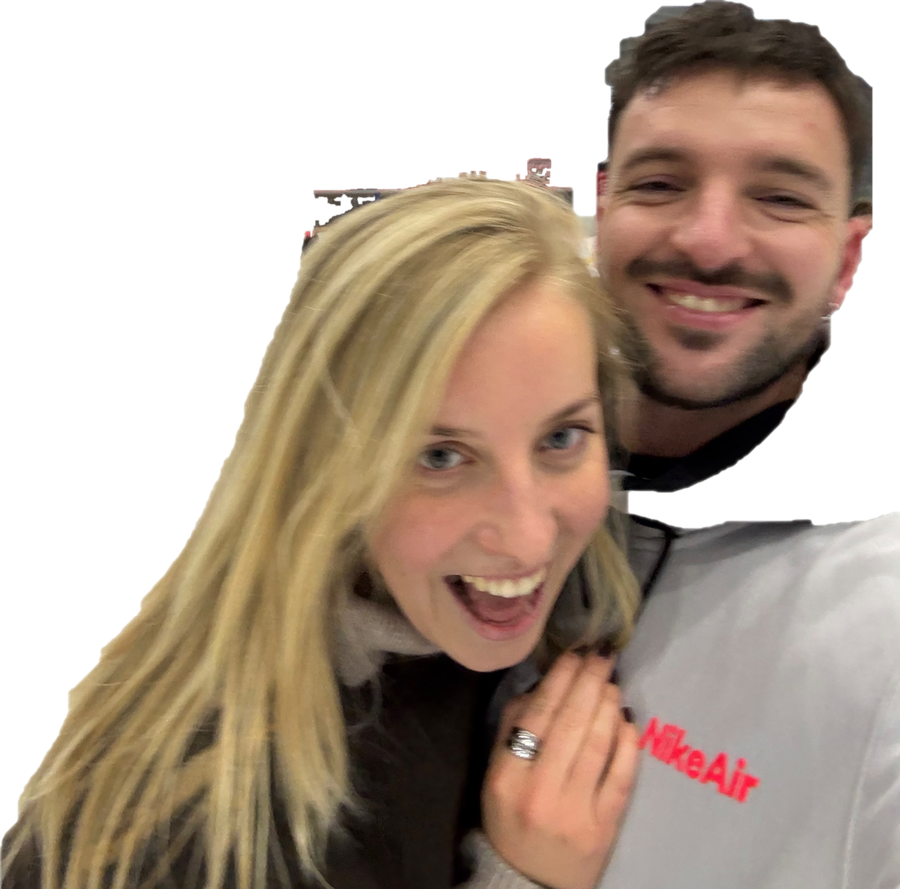
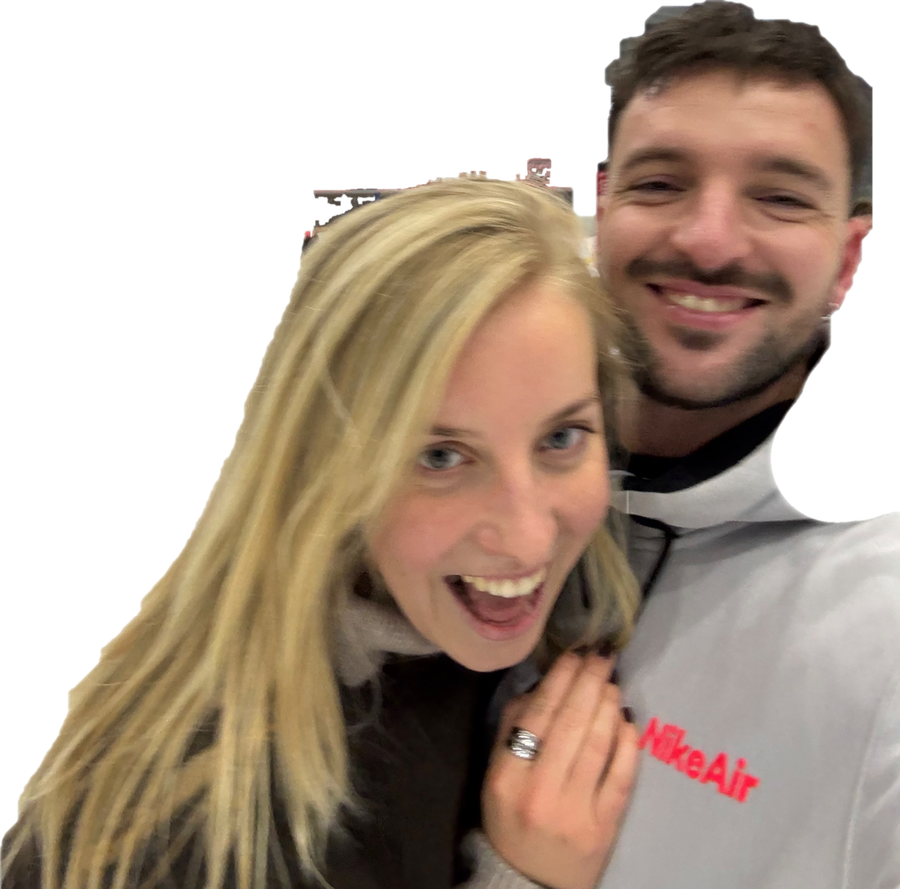
Add files via upload

Changed region(s): [[0.6844, 0.4859, 0.9333, 0.6074]]

diff --git a/app.js b/app.js
@@ -38,9 +38,11 @@ const daysTo = m => {
 /* ---------- modules ---------- */
 const cal = { y: new Date().getFullYear(), m: new Date().getMonth(), sel: iso(new Date()) };
 let listTab = null;
-let songId = null, rotTimer = null, homePhotoId = null, sportRange = 'month', sportWho = 'all';
+let songAdd = false, goalOwner = 2, songId = null, rotTimer = null, homePhotoId = null, sportRange = 'month', sportWho = 'all';
 const legend = () => `<p class="legend">${[0, 1, 2].map(i => `<span class="tag who" data-w="${i}">${esc(owner(i))}</span>`).join(' ')}</p>`;
 const copyText = t => navigator.clipboard?.writeText(t).then(() => toast('Copied'));
+const spotifyId = u => (u || '').match(/open\.spotify\.com\/(?:intl-[a-z]+\/)?(track|album|playlist|artist|episode|show)\/([A-Za-z0-9]+)/);
+const GOAL_IDEAS = [['📖', 'Read 15 pages'], ['💧', 'Drink 2 liters of water'], ['🧘', 'Stretching, 10 minutes'], ['🚶', 'Walk 8 000 steps'], ['😴', 'In bed by 23:00'], ['🍎', 'Fruit or veg with every meal'], ['📵', 'One hour without phone'], ['✍', 'Write 3 things you are grateful for']];
 const nextSong = () => { songId = null; render(); };
 const hm = m => `${Math.floor(m / 60)}h ${m % 60}m`;
 function shufflePhoto() { homePhotoId = null; render(); }
@@ -55,9 +57,9 @@ function home() {
   const byTime = (a, b) => (a.date + (a.time || '')).localeCompare(b.date + (b.time || ''));
   const evRow = (e, label) => `<li data-w="${e.who}"><span class="grow">${esc(e.title)}${e.location ? ` <span class="muted">at ${esc(e.location)}</span>` : ''}</span>${label ? `<span class="tag teal">${label}</span>` : ''}<span class="muted">${esc(e.time || 'all day')}</span></li>`;
   const label = k => { const n = Math.round((parse(k) - t0) / 864e5); return n === 1 ? 'Tomorrow' : parse(k).toLocaleDateString(undefined, { weekday: 'short', day: 'numeric', month: 'short' }); };
-  const evs = S.events.filter(e => e.date === t).sort(byTime);
-  const coming = S.events.filter(e => e.date > t).sort(byTime).slice(0, 8);
-  const open = S.tasks.filter(x => !x.done).sort((a, b) => (a.due || '9').localeCompare(b.due || '9')).slice(0, 7);
+  const evs = S.events.filter(e => e.date === t).sort(byTime).slice(0, 4);
+  const coming = S.events.filter(e => e.date > t).sort(byTime).slice(0, 5);
+  const open = S.tasks.filter(x => !x.done).sort((a, b) => (a.due || '9').localeCompare(b.due || '9')).slice(0, 5);
   const ms = S.milestones.map(m => ({ ...m, n: daysTo(m) })).sort((a, b) => a.n - b.n).slice(0, 3);
   const lst = S.lists.slice(0, 4).map(l => ({ name: l.name, owner: l.owner ?? 2, open: l.items.filter(i => !i.done) }));
   const trip = S.events.filter(e => e.date >= t && e.lat != null && Math.round((parse(e.date) - t0) / 864e5) <= 9).sort(byTime)[0];
@@ -73,10 +75,12 @@ function home() {
   const longest = mon.reduce((a, s) => s.mins > (a?.mins || 0) ? s : a, null);
   const byT = {}; mon.forEach(s => byT[s.type] = (byT[s.type] || 0) + s.mins);
   const topT = Object.entries(byT).sort((a, b) => b[1] - a[1])[0];
-  const last = [...S.sports].sort((a, b) => b.date.localeCompare(a.date))[0];
-  const more = (id, txt) => `<p style="margin:.6rem 0 0"><a href="#${id}">${txt}</a></p>`;
+  const head = (title, id) => `<div class="chead"><h3>${title}</h3><a href="#${id}">Open</a></div>`;
   const hello = (h => h < 5 ? 'Good night' : h < 12 ? 'Good morning' : h < 18 ? 'Good afternoon' : 'Good evening')(new Date().getHours());
-  return `<h2>${hello}, ${esc(S.names[0])} & ${esc(S.names[1])}</h2><p class="muted">${fmt(t)}</p>${legend()}
+  const player = !song ? `<p class="muted">Tap “+ Add” and paste a Spotify link to a song, album or playlist. A player shows up here.</p>`
+    : song.sid ? `<iframe class="spot" src="https://open.spotify.com/embed/${song.kind}/${song.sid}?theme=0" height="152" allow="encrypted-media; clipboard-write" loading="lazy" title="Spotify player"></iframe>`
+    : `<div class="songt">${esc(song.title)}</div><p class="muted">${esc(song.artist)}</p><a class="btn" href="https://open.spotify.com/search/${encodeURIComponent(song.title + ' ' + song.artist)}" target="_blank" rel="noopener">Find on Spotify</a>`;
+  return `<div class="homehead"><h2>${hello}, ${esc(S.names[0])} & ${esc(S.names[1])} <span class="muted">${fmt(t)}</span></h2>${legend()}</div>
   <div class="home">
     <section class="card span hero"><div class="herogrid">
       <div><h3>Special dates</h3>${ms.length
@@ -84,23 +88,21 @@ function home() {
         : `<p class="muted">Add an anniversary or birthday under Special dates.</p>`}</div>
       <div><h3>Weather</h3><div class="wxrow">${places.map(p => `<div class="wxplace"><span class="muted">${esc(p[0])}</span><div data-wx="${p[1]}|${p[2]}|${p[3]}">…</div></div>`).join('')}</div></div>
     </div></section>
-    <section class="card todaycard"><h3>Today</h3>${evs.length ? `<ul class="items">${evs.map(e => evRow(e)).join('')}</ul>` : `<p class="muted">Nothing planned today.</p>`}${more('calendar', 'Open calendar')}</section>
-    <section class="card"><h3>Song of the day</h3>${song
-      ? `<div class="songt">${esc(song.title)}</div><p class="muted">${esc(song.artist)}</p><p><a class="btn" href="https://open.spotify.com/search/${encodeURIComponent(song.title + ' ' + song.artist)}" target="_blank" rel="noopener">Find on Spotify</a> <button onclick="nextSong()">Another</button> <button class="ghost" data-act="delSong" data-id="${song.id}">Remove</button></p>`
-      : `<p class="muted">Add your favourite songs and a suggestion shows up here.</p>`}
-      <form class="row" data-form="addSong" style="margin:.4rem 0 0"><input type="text" name="title" placeholder="Song" required aria-label="Song"><input type="text" name="artist" placeholder="Artist" aria-label="Artist"><button>Add</button></form></section>
-    <section class="card"><h3>Coming up</h3>${coming.length ? `<ul class="items">${coming.map(e => evRow(e, label(e.date))).join('')}</ul>` : `<p class="muted">No upcoming events. Add one in the Calendar.</p>`}${more('calendar', 'Open calendar')}</section>
-    <section class="card"><h3>Open to-dos</h3>${open.length ? `<ul class="items">${open.map(x => `<li data-w="${x.owner}"><span class="grow">${esc(x.text)}${x.due ? ` <span class="muted">due ${fmt(x.due)}</span>` : ''}</span></li>`).join('')}</ul>` : `<p class="muted">All done. Add a new to-do when something comes up.</p>`}${more('tasks', 'All to-dos')}</section>
+    <section class="card todaycard">${head('Today', 'calendar')}${evs.length ? `<ul class="items">${evs.map(e => evRow(e)).join('')}</ul>` : `<p class="muted">Nothing planned today.</p>`}</section>
+    <section class="card">${head('Coming up', 'calendar')}${coming.length ? `<ul class="items">${coming.map(e => evRow(e, label(e.date))).join('')}</ul>` : `<p class="muted">No upcoming events.</p>`}</section>
+    <section class="card">${head('To-dos', 'tasks')}${open.length ? `<ul class="items">${open.map(x => `<li data-w="${x.owner}"><span class="grow">${esc(x.text)}${x.due ? ` <span class="muted">${fmt(x.due)}</span>` : ''}</span></li>`).join('')}</ul>` : `<p class="muted">All done.</p>`}</section>
     <section class="card memo">${hp && sb
       ? `<button class="memophoto" onclick="openViewer('${hp.id}')" aria-label="Open photo"><img data-photo="${hp.path}" alt="Memory from ${fmt(hp.date)}"></button><div class="memocap"><span>${fmt(hp.date)}</span></div>`
-      : `<div class="memoempty"><h3>Memory</h3><p class="muted">Add photos to a day in the Calendar. They appear here and change every few seconds.</p></div>`}</section>
-    <section class="card"><h3>Sports this month</h3>${mon.length
-      ? `<div class="big">${hm(tm(0) + tm(1))}</div><p class="muted">both of you combined</p>
+      : `<div class="memoempty"><h3>Memory</h3><p class="muted">Add photos to a day in the Calendar. They show here and change every few seconds.</p></div>`}</section>
+    <section class="card music"><div class="chead"><h3>Our music</h3><span><button class="ghost" onclick="nextSong()">Shuffle</button><button class="ghost" onclick="songAdd=!songAdd;render()">${songAdd ? 'Close' : '+ Add'}</button></span></div>${player}
+      ${songAdd ? `<form class="row" data-form="addSong" style="margin:.6rem 0 0"><input type="text" name="url" placeholder="Paste a Spotify link" required aria-label="Spotify link"><button class="primary">Add</button></form>` : ''}
+      ${song ? `<button class="ghost" data-act="delSong" data-id="${song.id}">Remove this one</button>` : ''}</section>
+    <section class="card">${head('Sports this month', 'sports')}${mon.length
+      ? `<div class="sportrow"><div class="big">${hm(tm(0) + tm(1))}</div><span class="muted">combined</span></div>
         ${[0, 1].map(i => `<div class="bar" data-w="${i}"><span>${esc(S.names[i])}</span><div><i style="width:${Math.round(tm(i) / mx * 100)}%"></i></div><b>${hm(tm(i))}</b></div>`).join('')}
-        <div class="chips"><span class="chip"><b>${mon.length}</b> activities</span><span class="chip"><b>${S.sports.filter(s => s.date >= wkStart).length}</b> this week</span><span class="chip"><b>${kmTot.toFixed(0)}</b> km</span>${topT ? `<span class="chip">top: <b>${esc(topT[0])}</b></span>` : ''}${longest ? `<span class="chip">longest <b>${hm(longest.mins)}</b></span>` : ''}</div>
-        ${last ? `<p class="muted">Last: ${esc(last.type)} on ${fmt(last.date)}</p>` : ''}`
-      : `<p class="muted">Nothing logged this month.</p>`}${more('sports', 'Open sports')}</section>
-    <section class="card span"><h3>Lists</h3><div class="listgrid">${lst.length ? lst.map(l => `<div class="mini" data-w="${l.owner}"><strong>${esc(l.name)}</strong> <span class="tag who">${l.open.length} open</span><div class="muted">${l.open.length ? esc(l.open.slice(0, 4).map(i => i.text).join(', ')) + (l.open.length > 4 ? '…' : '') : 'All done'}</div></div>`).join('') : `<p class="muted">No lists yet.</p>`}</div>${more('lists', 'All lists')}</section>
+        <div class="chips"><span class="chip"><b>${mon.length}</b> activities</span><span class="chip"><b>${S.sports.filter(s => s.date >= wkStart).length}</b> this week</span><span class="chip"><b>${kmTot.toFixed(0)}</b> km</span>${topT ? `<span class="chip">top <b>${esc(topT[0])}</b></span>` : ''}${longest ? `<span class="chip">longest <b>${hm(longest.mins)}</b></span>` : ''}</div>`
+      : `<p class="muted">Nothing logged this month.</p>`}</section>
+    <section class="card span2">${head('Lists', 'lists')}<div class="listgrid">${lst.length ? lst.map(l => `<div class="mini" data-w="${l.owner}"><strong>${esc(l.name)}</strong> <span class="tag who">${l.open.length} open</span><div class="muted">${l.open.length ? esc(l.open.slice(0, 3).map(i => i.text).join(', ')) + (l.open.length > 3 ? '…' : '') : 'All done'}</div></div>`).join('') : `<p class="muted">No lists yet.</p>`}</div></section>
   </div>`;
 }
 
@@ -240,6 +242,7 @@ const A = {
   srange: id => { sportRange = id; },
   swho: id => { sportWho = id; },
   delSong: id => { S.songs = S.songs.filter(s => s.id !== id); songId = null; },
+  preset: t => { if (GOAL_IDEAS.some(i => i[1] === t) && !S.goals.some(g => g.text === t)) S.goals.push({ id: uid(), text: t, owner: goalOwner, days: {} }); },
   toggleGoal: id => { const g = S.goals.find(x => x.id === id), t = iso(new Date()); if (g.days[t]) delete g.days[t]; else g.days[t] = 1; },
   delGoal: id => { S.goals = S.goals.filter(g => g.id !== id); },
   delSport: id => { S.sports = S.sports.filter(s => s.id !== id); },
@@ -265,7 +268,7 @@ const F = {
   saveMs: d => Object.assign(S.milestones.find(x => x.id === d.id), { title: d.title.trim(), date: d.date, repeat: !!d.repeat }),
   addSport: d => S.sports.push({ id: uid(), ...sportData(d) }),
   saveSport: d => Object.assign(S.sports.find(x => x.id === d.id), sportData(d)),
-  addSong: d => S.songs.push({ id: uid(), title: d.title.trim(), artist: (d.artist || '').trim() }),
+  addSong: d => { const m = spotifyId(d.url); if (!m) { toast('That does not look like a Spotify link.'); return; } S.songs.push({ id: uid(), kind: m[1], sid: m[2] }); songAdd = false; songId = null; },
   addGoal: d => S.goals.push({ id: uid(), text: d.text.trim(), owner: +d.owner, days: {} }),
   saveGoal: d => Object.assign(S.goals.find(x => x.id === d.id), { text: d.text.trim(), owner: +d.owner }),
   saveToken: d => { S.calToken = d.token.trim(); },
@@ -440,6 +443,8 @@ function goals() {
       <div class="grow">${esc(g.text)}<div class="week" aria-label="Last 7 days">${week(g)}</div></div><span class="muted">${streak(g)} day streak</span><span class="tag who">${esc(owner(g.owner))}</span>${editBtn(g.id)}<button class="ghost" data-act="delGoal" data-id="${g.id}" aria-label="Delete goal">✕</button></li>`;
   return `<h2>Daily goals</h2><p class="muted">${done} of ${S.goals.length} done today</p>
   <div class="progress" role="progressbar" aria-valuenow="${pct}" aria-valuemin="0" aria-valuemax="100"><i style="width:${pct}%"></i></div>
+  ${GOAL_IDEAS.some(([, t]) => !S.goals.some(g => g.text === t)) ? `<div class="card"><div class="chead"><h3>Popular goals</h3><label class="muted">For <select onchange="goalOwner=+this.value" aria-label="Who is it for">${ownerOpts(goalOwner)}</select></label></div>
+    <div class="ideas">${GOAL_IDEAS.filter(([, t]) => !S.goals.some(g => g.text === t)).map(([ic, t]) => `<button class="idea" data-act="preset" data-id="${esc(t)}"><span class="ic">${ic}</span>${esc(t)}</button>`).join('')}</div></div>` : ''}
   <form class="card row" data-form="addGoal"><h3 style="flex-basis:100%;margin:0">New daily goal</h3>
     <input type="text" name="text" placeholder="e.g. 10 000 steps, read 20 minutes, no sugar" required aria-label="Goal">
     <select name="owner" aria-label="For whom">${ownerOpts(2)}</select><button class="primary">Add goal</button></form>
@@ -463,6 +468,7 @@ function sports() {
   const byType = {}; inR.forEach(s => { (byType[s.type] ||= [0, 0, 0])[s.who] += s.mins; });
   const sum3 = v => v[0] + v[1] + v[2];
   const bars = Object.entries(byType).sort((a, b) => sum3(b[1]) - sum3(a[1])).slice(0, 6), maxB = bars[0] ? sum3(bars[0][1]) : 1;
+  const maxS = Math.max(1, ...bars.flatMap(([, v]) => v));
   const list = inR.filter(s => sportWho === 'all' || has(s, +sportWho));
   const tab = (act, id, on, txt) => `<button class="${on ? 'on' : ''}" data-act="${act}" data-id="${id}">${txt}</button>`;
   const types = [...new Set([...SPORT_TYPES, ...S.sports.map(s => s.type)])];
@@ -486,7 +492,7 @@ function sports() {
     ${[0, 1].map(i => `<div class="card" data-w="${i}"><p class="muted">${esc(S.names[i])}</p><div class="big">${hm(tm(i))}</div><p class="muted">${mine(i).length} activities, ${km(i).toFixed(1)} km</p></div>`).join('')}
   </div>
   <p class="muted" style="margin-top:-.4rem">Activities done together count for both of you.</p>
-  ${bars.length ? `<div class="card"><h3>Time by activity</h3>${legend()}${bars.map(([t, v]) => `<div class="bar"><span>${esc(t)}</span><div>${[0, 1, 2].map(w => v[w] ? `<i data-w="${w}" style="width:${v[w] / maxB * 100}%"></i>` : '').join('')}</div><b>${hm(sum3(v))}</b></div>`).join('')}</div>` : ''}
+  ${bars.length ? `<div class="card"><h3>Time by activity</h3>${legend()}${bars.map(([t, v]) => `<div class="bgroup"><div class="bhead"><strong>${esc(t)}</strong><span class="muted">${hm(sum3(v))} in total</span></div>${[0, 1, 2].filter(w => v[w]).map(w => `<div class="bar" data-w="${w}"><span>${esc(owner(w))}</span><div><i style="width:${Math.round(v[w] / maxS * 100)}%"></i></div><b>${hm(v[w])}</b></div>`).join('')}</div>`).join('')}</div>` : ''}
   <form class="card row" data-form="addSport"><h3 style="flex-basis:100%;margin:0">Log an activity</h3>${fields({})}<button class="primary">Add activity</button></form>
   <datalist id="sporttypes">${types.map(t => `<option value="${esc(t)}">`).join('')}</datalist>
   <div class="tabs">${tab('swho', 'all', sportWho === 'all', 'Everyone')}${tab('swho', '0', sportWho === '0', esc(S.names[0]))}${tab('swho', '1', sportWho === '1', esc(S.names[1]))}</div>
@@ -503,6 +509,7 @@ function render() {
   document.getElementById('brand').textContent = S.names.join(' + ');
   const y = view.scrollTop;
   view.innerHTML = m.render();
+  view.classList.toggle('onehome', m.id === 'home');
   view.scrollTop = y;
   if (editing) view.querySelector('.editing input[type=text], .editing textarea')?.focus();
   hydrate(); fillWeather();

diff --git a/style.css b/style.css
@@ -118,6 +118,9 @@ ul.items li[data-w]{box-shadow:inset 4px 0 0 var(--wc);padding-left:.9rem}
 .cal button.sel .dots b{box-shadow:0 0 0 1.5px #1b0f31}
 .cal button.has::after{display:none}
 .bar[data-w] i{background:var(--wc)}
+.bgroup{margin:.8rem 0 1rem}
+.bhead{display:flex;justify-content:space-between;align-items:baseline}
+.bgroup .bar{margin:.25rem 0}
 .bar div i{display:block;height:100%}
 .bar div{display:flex}
 
@@ -142,6 +145,31 @@ a.btn,main a.btn{display:inline-block;padding:.55rem 1.1rem;border-radius:999px;
 .week{display:flex;gap:4px;margin-top:.35rem}
 .week i{width:14px;height:6px;border-radius:99px;background:var(--field)}
 .week i.on{background:var(--wc)}
+
+/* one-page home */
+.homehead{display:flex;justify-content:space-between;align-items:baseline;gap:.4rem 1rem;flex-wrap:wrap}
+.homehead h2{margin:0}.homehead h2 .muted{font-family:var(--body);font-weight:400;margin-left:.4rem}
+.chead{display:flex;justify-content:space-between;align-items:baseline;margin-bottom:.4rem;gap:.5rem}
+.chead h3{margin:0}.chead a{font-size:.85rem}
+.sportrow{display:flex;align-items:baseline;gap:.6rem}
+.spot{width:100%;border:0;border-radius:14px;display:block}
+.ideas{display:grid;grid-template-columns:repeat(auto-fill,minmax(190px,1fr));gap:.5rem}
+.idea{display:flex;gap:.7rem;align-items:center;text-align:left;padding:.75rem .9rem;border-radius:16px;font-weight:600;background:var(--field)}
+.idea:hover{background:var(--accent-soft)}.idea .ic{font-size:1.5rem}
+@media (min-width:1100px){.home .span2{grid-column:span 2}}
+@media (min-width:1100px) and (min-height:640px){
+  main.onehome{overflow:hidden;max-width:none;padding-top:1.1rem;padding-bottom:1.1rem}
+  .onehome .homehead h2{font-size:1.6rem}
+  .onehome .home{height:calc(100vh - 4.6rem);grid-template-columns:repeat(4,minmax(0,1fr));grid-template-rows:auto minmax(0,1fr) minmax(0,1fr);gap:.8rem;margin-top:.5rem}
+  .onehome .home .card{overflow:auto;padding:.8rem 1rem}
+  .onehome .hero{padding:.8rem 1.4rem}
+  .onehome .hero .big{font-size:2.4rem}
+  .onehome .herorow{gap:.6rem 2rem}.onehome .herorow .small .big{font-size:1.6rem}
+  .onehome .herorow p{margin:.2rem 0 0}
+  .onehome .home .memo{min-height:0;padding:0}
+  .onehome ul.items li{padding:.4rem 0 .4rem .9rem}
+}
+@media (max-width:760px){.home .card{padding:1rem}.home .memo{min-height:220px}}
 
 /* moving background */
 .bgfx{position:fixed;inset:0;z-index:-1;overflow:hidden;pointer-events:none}

diff --git a/index.html b/index.html
@@ -8,14 +8,14 @@
 <style>html,body{background:#150d24}</style>
 <title>Us – our little helper</title>
 <link rel="icon" href="favicon-us.png" type="image/png">
-<link rel="apple-touch-icon" sizes="180x180" href="apple-icon-v3.png">
+<link rel="apple-touch-icon" sizes="180x180" href="apple-icon-v4.png">
 <meta name="apple-mobile-web-app-capable" content="yes">
 <meta name="apple-mobile-web-app-title" content="Us">
 <meta name="apple-mobile-web-app-status-bar-style" content="black-translucent">
 <link rel="preconnect" href="https://fonts.googleapis.com">
 <link rel="preconnect" href="https://fonts.gstatic.com" crossorigin>
 <link href="https://fonts.googleapis.com/css2?family=Fraunces:opsz,wght@9..144,500;9..144,700&family=Figtree:wght@400;600&display=swap" rel="stylesheet">
-<link rel="stylesheet" href="style.css?v=5">
+<link rel="stylesheet" href="style.css?v=6">
 </head>
 <body>
 <div class="bgfx" aria-hidden="true"><i></i><i></i><i></i></div>
@@ -25,7 +25,7 @@
 </aside>
 <main id="view" tabindex="-1"></main>
 <script src="https://cdn.jsdelivr.net/npm/@supabase/supabase-js@2.45.4/dist/umd/supabase.js"></script>
-<script src="config.js?v=5"></script>
-<script src="app.js?v=5"></script>
+<script src="config.js?v=6"></script>
+<script src="app.js?v=6"></script>
 </body>
 </html>
